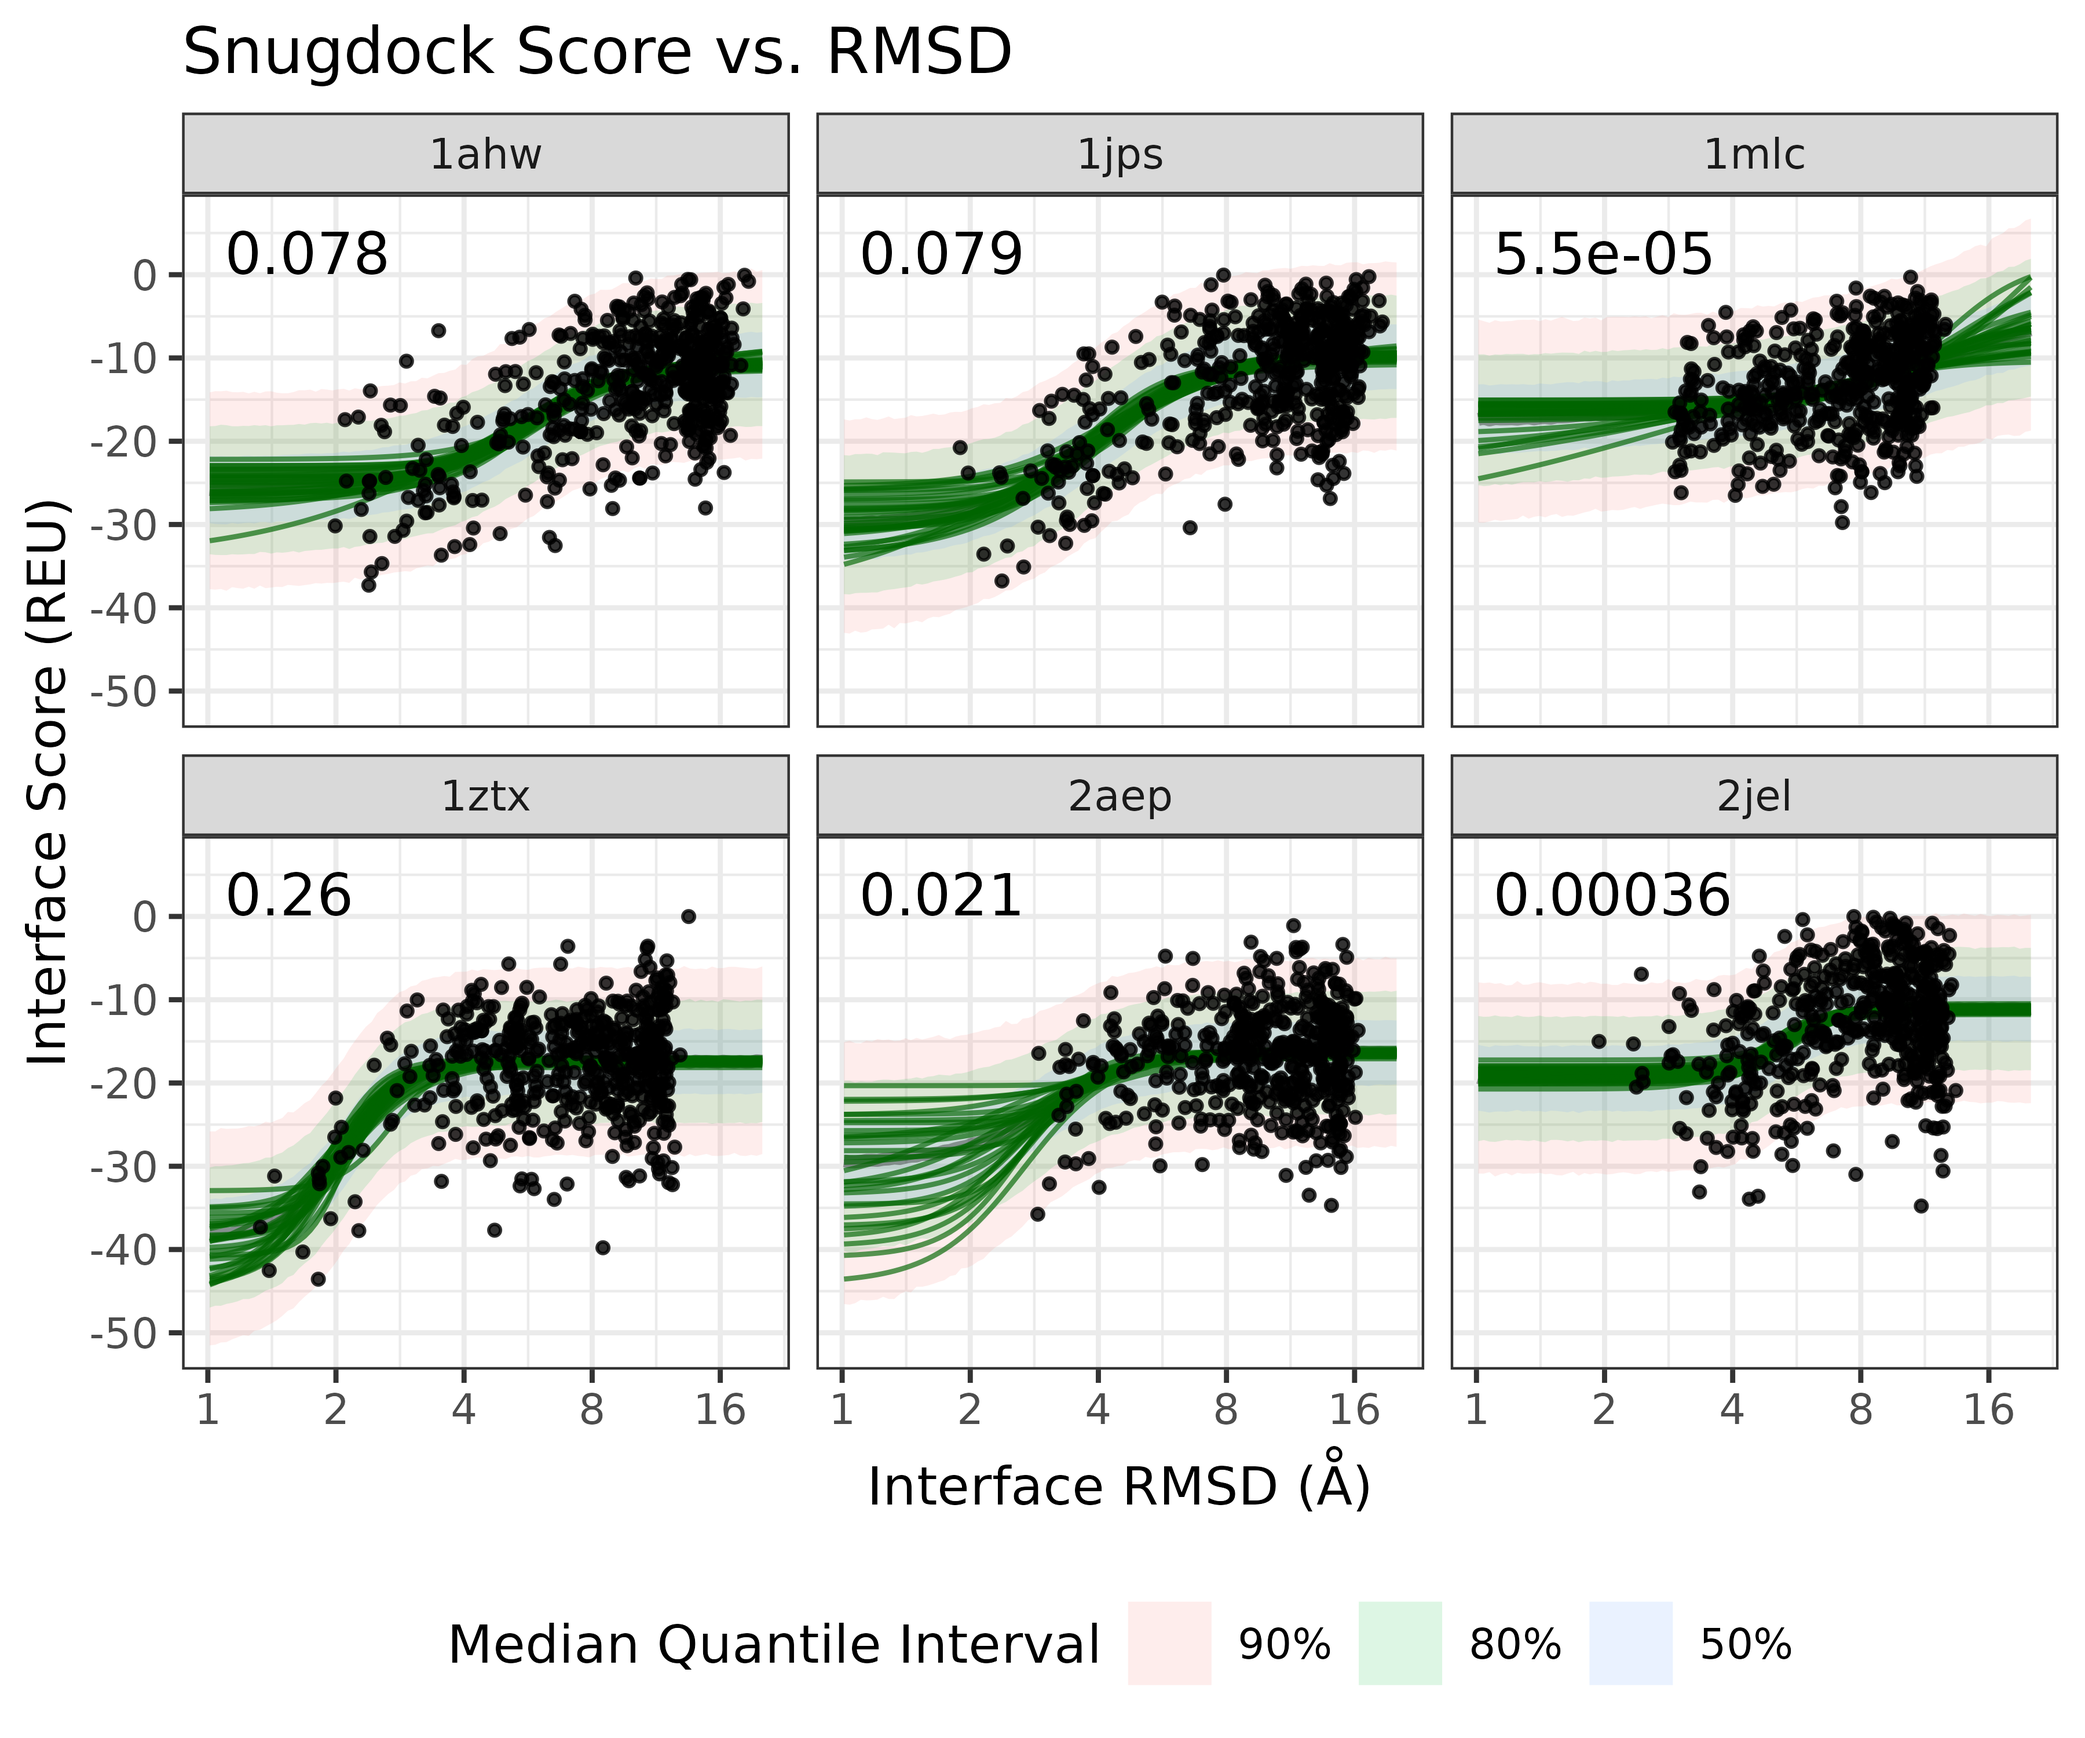
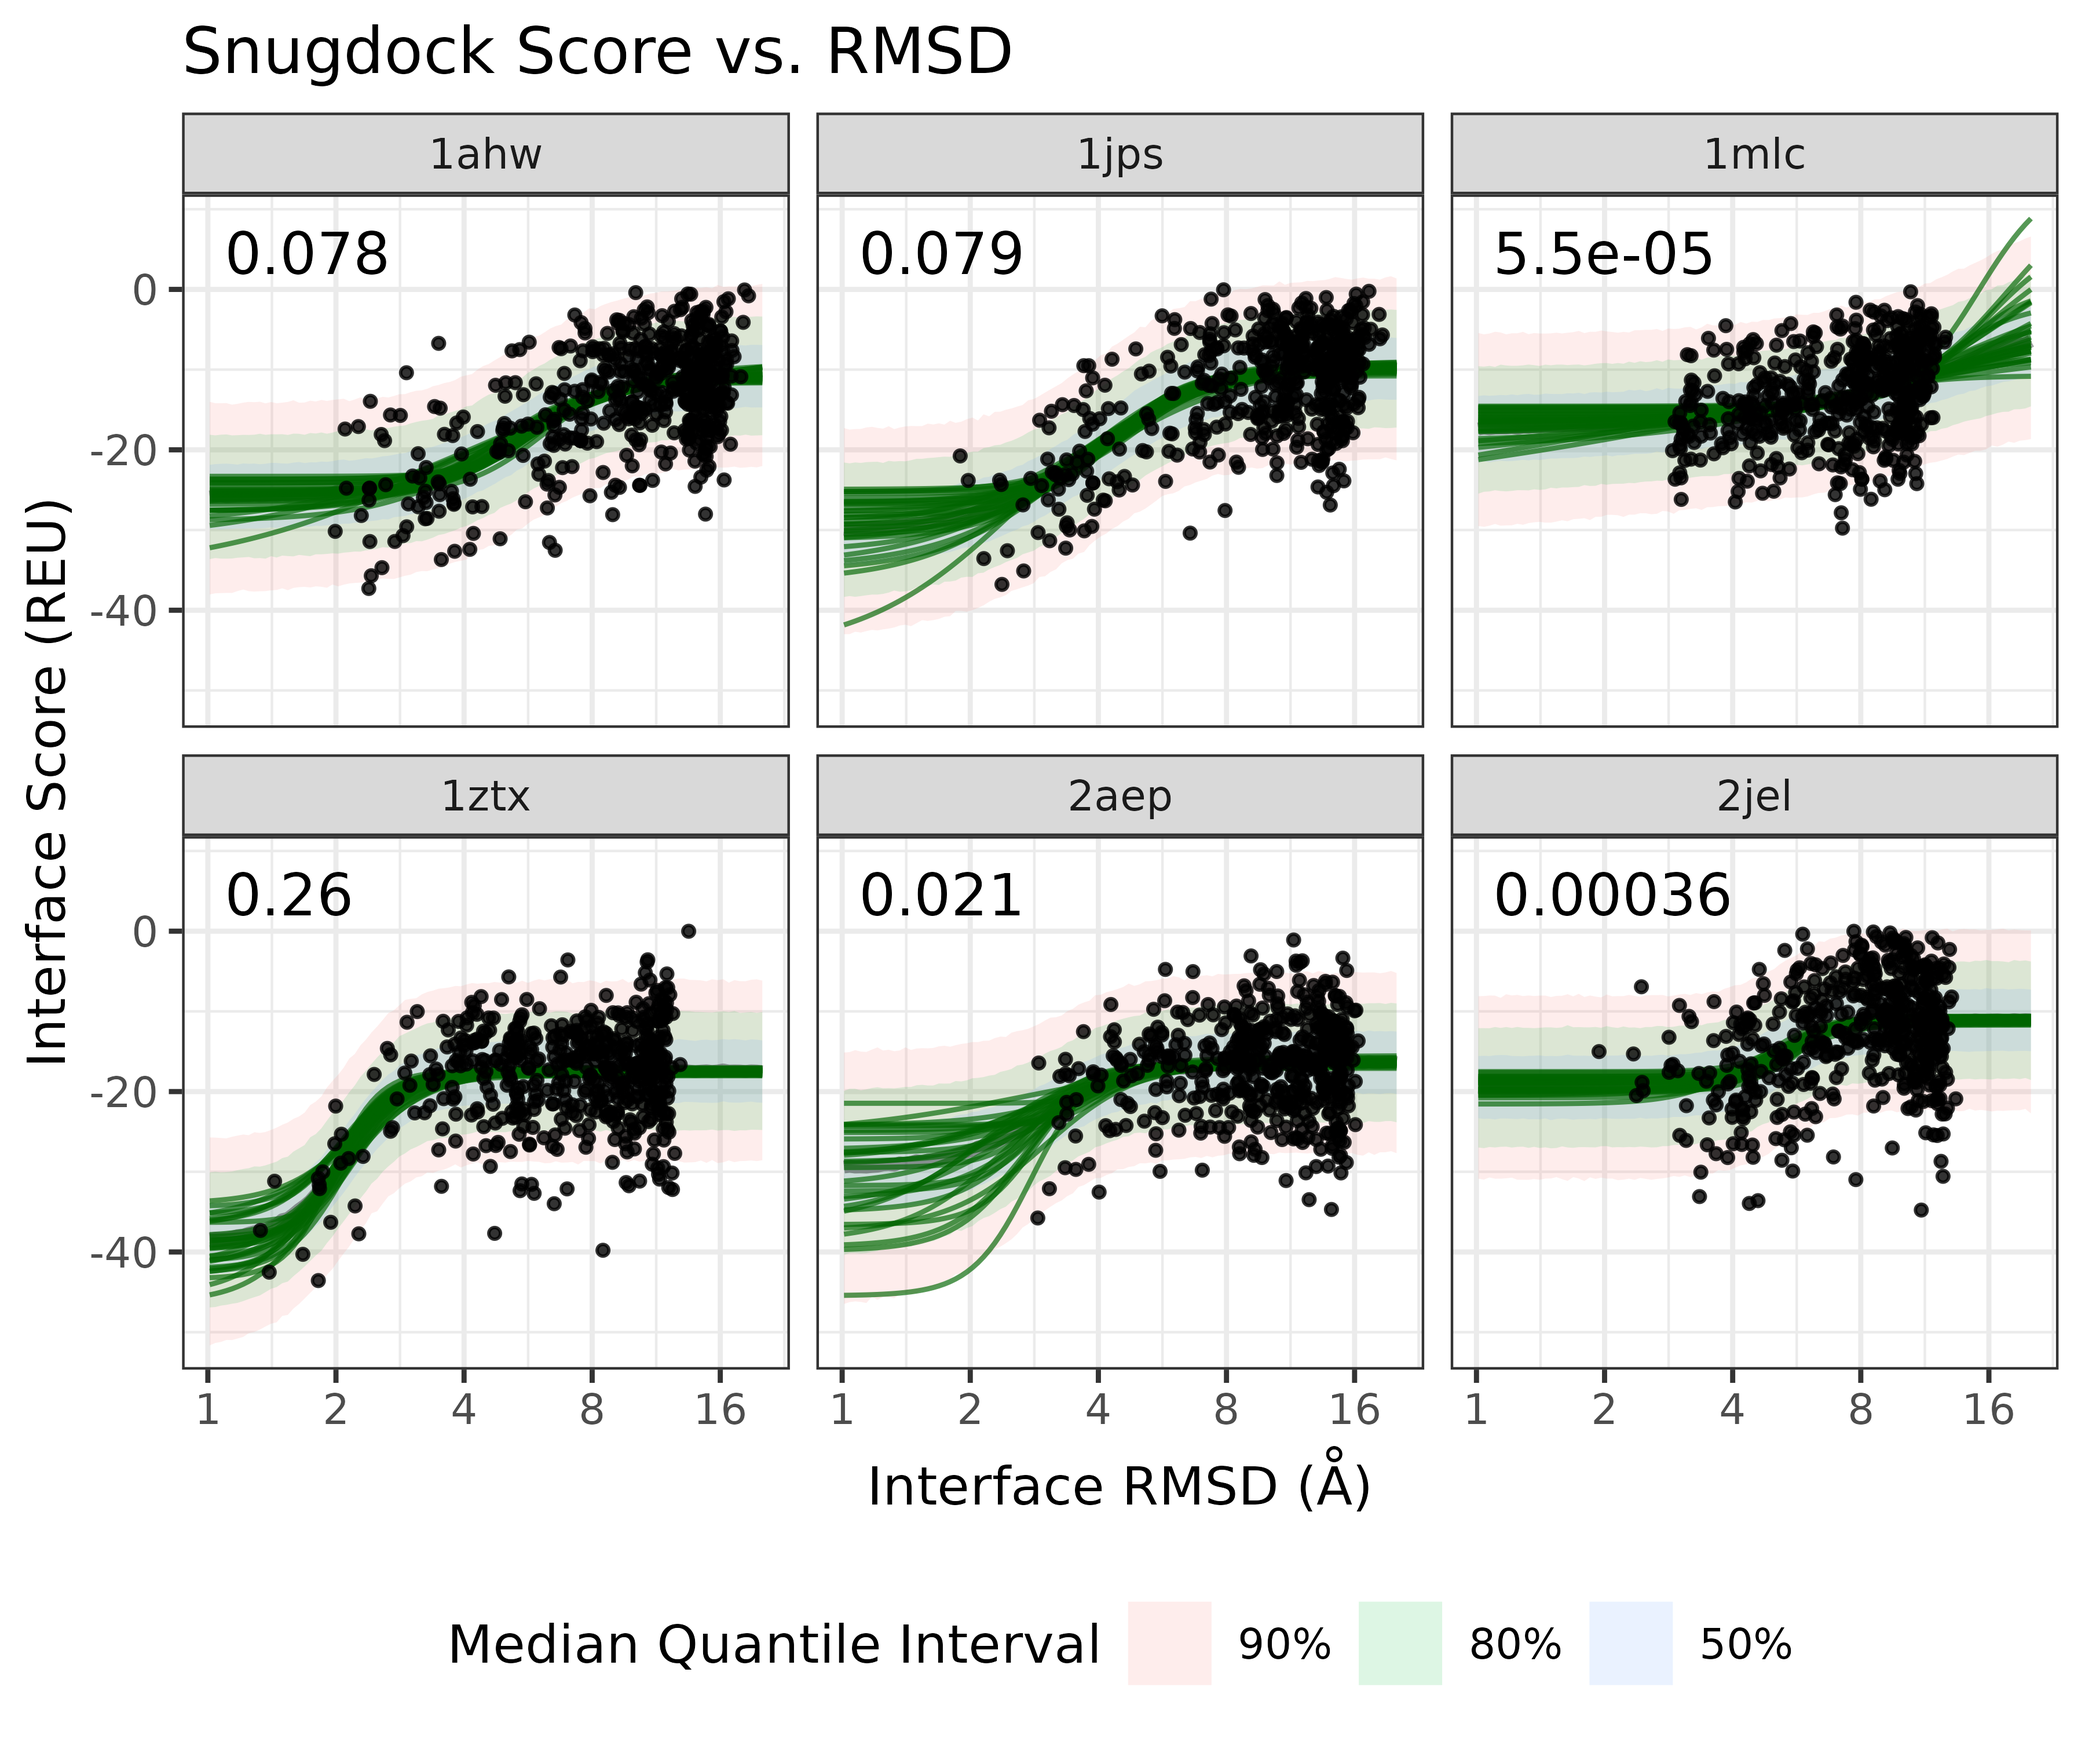
Built site for BayesPharma: 0.0.1@cf0fb52

diff --git a/articles/model_Pnear_distribution.html b/articles/model_Pnear_distribution.html
@@ -129,34 +129,34 @@
 <span class="co">## </span>
 <span class="co">## Population-Level Effects: </span>
 <span class="co">##                   Estimate Est.Error l-95% CI u-95% CI Rhat Bulk_ESS Tail_ESS</span>
-<span class="co">## ec50_target1ahw       1.70      0.11     1.44     1.87 1.00     7123     3918</span>
-<span class="co">## ec50_target1jps       1.37      0.13     1.08     1.59 1.00     8365     6475</span>
-<span class="co">## ec50_target1mlc       2.39      0.52     1.00     3.20 1.00     4917     4147</span>
-<span class="co">## ec50_target1ztx       0.75      0.08     0.59     0.90 1.00    10103     8923</span>
-<span class="co">## ec50_target2aep       1.11      0.24     0.61     1.49 1.00     9695     7279</span>
-<span class="co">## ec50_target2jel       1.65      0.06     1.53     1.76 1.00    10957     9450</span>
-<span class="co">## hill_target1ahw       1.69      0.44     0.88     2.63 1.00     5356     3410</span>
-<span class="co">## hill_target1jps       1.50      0.36     0.89     2.32 1.00     6746     6523</span>
-<span class="co">## hill_target1mlc       1.02      0.56     0.25     2.31 1.00     5371     5807</span>
-<span class="co">## hill_target1ztx       2.72      0.55     1.78     3.90 1.00    12478    11172</span>
-<span class="co">## hill_target2aep       2.00      0.65     0.77     3.37 1.00     9199     5053</span>
-<span class="co">## hill_target2jel       3.20      0.58     2.12     4.43 1.00    13294    10316</span>
-<span class="co">## top_target1ahw      -10.55      0.72   -11.58    -8.78 1.00     7124     3912</span>
-<span class="co">## top_target1jps       -9.70      0.58   -10.62    -8.33 1.00     9125     7329</span>
-<span class="co">## top_target1mlc       -1.30      5.95    -9.92    12.66 1.00    10718     8129</span>
-<span class="co">## top_target1ztx      -17.44      0.28   -17.98   -16.90 1.00    19985    10833</span>
-<span class="co">## top_target2aep      -16.34      0.45   -16.95   -15.53 1.00    11187     5870</span>
-<span class="co">## top_target2jel      -11.10      0.33   -11.75   -10.43 1.00    19047    11548</span>
-<span class="co">## bottom_target1ahw   -26.00      2.17   -31.45   -23.12 1.00     5617     3462</span>
-<span class="co">## bottom_target1jps   -30.45      3.79   -39.79   -24.88 1.00     7152     5913</span>
-<span class="co">## bottom_target1mlc   -18.60      4.48   -31.74   -14.77 1.00     4667     3882</span>
-<span class="co">## bottom_target1ztx   -38.84      3.52   -46.66   -32.98 1.00    10159     8787</span>
-<span class="co">## bottom_target2aep   -30.34      5.89   -43.89   -21.34 1.00    13443     9830</span>
-<span class="co">## bottom_target2jel   -19.47      0.98   -21.58   -17.76 1.00    11628     9111</span>
+<span class="co">## ec50_target1ahw       1.70      0.11     1.44     1.87 1.00     8040     4917</span>
+<span class="co">## ec50_target1jps       1.38      0.12     1.09     1.59 1.00     8182     6825</span>
+<span class="co">## ec50_target1mlc       2.39      0.53     0.95     3.19 1.00     5358     3861</span>
+<span class="co">## ec50_target1ztx       0.75      0.08     0.59     0.89 1.00     9590     7682</span>
+<span class="co">## ec50_target2aep       1.11      0.25     0.60     1.51 1.00     7621     5773</span>
+<span class="co">## ec50_target2jel       1.65      0.06     1.53     1.76 1.00    10396     8440</span>
+<span class="co">## hill_target1ahw       1.68      0.44     0.89     2.60 1.00     6079     4130</span>
+<span class="co">## hill_target1jps       1.51      0.36     0.90     2.30 1.00     7280     6394</span>
+<span class="co">## hill_target1mlc       1.03      0.55     0.26     2.29 1.00     5279     6129</span>
+<span class="co">## hill_target1ztx       2.72      0.55     1.78     3.91 1.00    11170    10033</span>
+<span class="co">## hill_target2aep       1.99      0.65     0.74     3.34 1.00     6881     2990</span>
+<span class="co">## hill_target2jel       3.19      0.58     2.12     4.40 1.00    12764     9492</span>
+<span class="co">## top_target1ahw      -10.55      0.71   -11.59    -8.82 1.00     7986     5463</span>
+<span class="co">## top_target1jps       -9.70      0.58   -10.60    -8.34 1.00     9687     7597</span>
+<span class="co">## top_target1mlc       -1.24      6.03    -9.89    13.09 1.00    11403     8918</span>
+<span class="co">## top_target1ztx      -17.45      0.28   -17.99   -16.89 1.00    18291    12029</span>
+<span class="co">## top_target2aep      -16.31      0.66   -16.95   -15.49 1.00     9033     3733</span>
+<span class="co">## top_target2jel      -11.09      0.34   -11.73   -10.43 1.00    17404    10972</span>
+<span class="co">## bottom_target1ahw   -26.00      2.08   -31.26   -23.10 1.00     6500     4535</span>
+<span class="co">## bottom_target1jps   -30.41      3.63   -39.16   -24.95 1.00     7535     6488</span>
+<span class="co">## bottom_target1mlc   -18.51      4.45   -31.99   -14.78 1.00     4551     3802</span>
+<span class="co">## bottom_target1ztx   -38.87      3.53   -46.87   -32.94 1.00     9780     8292</span>
+<span class="co">## bottom_target2aep   -30.32      5.89   -43.82   -21.30 1.00    11634     9956</span>
+<span class="co">## bottom_target2jel   -19.48      0.98   -21.59   -17.75 1.00    10495     7414</span>
 <span class="co">## </span>
 <span class="co">## Family Specific Parameters: </span>
 <span class="co">##       Estimate Est.Error l-95% CI u-95% CI Rhat Bulk_ESS Tail_ESS</span>
-<span class="co">## sigma     5.74      0.07     5.60     5.89 1.00    20505    11187</span>
+<span class="co">## sigma     5.74      0.07     5.60     5.89 1.00    17896    12464</span>
 <span class="co">## </span>
 <span class="co">## Draws were sampled using sampling(NUTS). For each parameter, Bulk_ESS</span>
 <span class="co">## and Tail_ESS are effective sample size measures, and Rhat is the potential</span>
@@ -167,8 +167,8 @@
 <span class="co">## </span>
 <span class="co">##          Estimate   SE</span>
 <span class="co">## elpd_loo  -9521.1 39.0</span>
-<span class="co">## p_loo        21.2  1.1</span>
-<span class="co">## looic     19042.3 77.9</span>
+<span class="co">## p_loo        21.3  1.1</span>
+<span class="co">## looic     19042.3 78.0</span>
 <span class="co">## ------</span>
 <span class="co">## Monte Carlo SE of elpd_loo is 0.0.</span>
 <span class="co">## </span>

diff --git a/index.html b/index.html
@@ -67,6 +67,74 @@
 </h2>
 <p>This package contains a collection of R tools for analyzing pharmacology data using Bayesian statistics.</p>
 </div>
+<div class="section level2">
+<h2 id="installation">Installation<a class="anchor" aria-label="anchor" href="#installation"></a>
+</h2>
+<div class="section level3">
+<h3 id="pre-requisites">Pre-requisites<a class="anchor" aria-label="anchor" href="#pre-requisites"></a>
+</h3>
+<p>Follow the instructions to install <a href="https://github.com/stan-dev/rstan/wiki/RStan-Getting-Started" class="external-link">rstan</a></p>
+</div>
+<div class="section level3">
+<h3 id="install-bayespharma">Install <code>BayesPharma</code>
+<a class="anchor" aria-label="anchor" href="#install-bayespharma"></a>
+</h3>
+<p>In R do</p>
+<pre class="{r}"><code><span class="fu"><a href="https://rdrr.io/r/utils/install.packages.html" class="external-link">install.packages</a></span><span class="op">(</span><span class="st">"remotes"</span><span class="op">)</span>
+   <span class="fu">remotes</span><span class="fu">::</span><span class="fu"><a href="https://remotes.r-lib.org/reference/install_github.html" class="external-link">install_github</a></span><span class="op">(</span><span class="st">"maomlab/BayesPharma"</span>, build_vignettes <span class="op">=</span> <span class="cn">FALSE</span><span class="op">)</span></code></pre>
+</div>
+</div>
+<div class="section level2">
+<h2 id="usage">Usage<a class="anchor" aria-label="anchor" href="#usage"></a>
+</h2>
+<p>calculate_log_dose change_col_name</p>
+<p>library(tidyverse) library(BayesPharma)</p>
+<p>data &lt;- data.frame( response = …, log_dose = …, <predictor columns>)</predictor></p>
+<p>dr_inits() dr_priors()</p>
+<p>model &lt;- data %&gt;% dr_model( formula = dr_formula</p>
+<p>model_prior &lt;-</p>
+<div class="section level3">
+<h3 id="evaluate-model-fit">Evaluate model fit<a class="anchor" aria-label="anchor" href="#evaluate-model-fit"></a>
+</h3>
+<div class="section level4">
+<h4 id="traceplot">Traceplot<a class="anchor" aria-label="anchor" href="#traceplot"></a>
+</h4>
+<p>model %&gt;% BayesPharma::traceplot()</p>
+</div>
+<div class="section level4">
+<h4 id="basic-statistics">Basic statistics<a class="anchor" aria-label="anchor" href="#basic-statistics"></a>
+</h4>
+<p>model %&gt;% basic_statistics()</p>
+</div>
+<div class="section level4">
+<h4 id="regression-plot">Regression plot<a class="anchor" aria-label="anchor" href="#regression-plot"></a>
+</h4>
+<p>model %&gt;% plot_draws_data()</p>
+</div>
+<div class="section level4">
+<h4 id="prior-densities">Prior densities<a class="anchor" aria-label="anchor" href="#prior-densities"></a>
+</h4>
+<p>model %&gt;% prior_densities() model %&gt;% posterior_densities() model %&gt;% prior_posterior_densitites()</p>
+</div>
+<div class="section level4">
+<h4 id="posterior-predictive-check">posterior predictive check<a class="anchor" aria-label="anchor" href="#posterior-predictive-check"></a>
+</h4>
+<p>model %&gt;% brms::pp_check(type = “dens_overlay”, ndraws = 50)</p>
+</div>
+</div>
+<div class="section level3">
+<h3 id="compare-model-fits">compare model fits<a class="anchor" aria-label="anchor" href="#compare-model-fits"></a>
+</h3>
+<p>model &lt;- model %&gt;% BayesPharma::add_loo_criterion() model_fit_comparison &lt;- compare_models(model, model_alt)</p>
+<div class="section level4">
+<h4 id="todo">TODO<a class="anchor" aria-label="anchor" href="#todo"></a>
+</h4>
+<p>either remove or re-organize column renaming functions</p>
+<p>dr_formula remove multiple_perturbations, just handle that case with dr_formula &lt;- function ( predictors = 1, …) { brms::brmsformula( response ~ sigmoid(ec50, hill, top, bottom, log_dose), rlang::new_formula( lhs = quote(ec50 + hill + top + bottom), rhs = rlang::enexpr(predictors)), nl = TRUE, …) }</p>
+<p>Add name to model object Use model name in add_loo_criterion rename dr_inits to have them better go with the model in dr_inits check data types do we need to have nchains for dr_inits? plot trajectories put required arguments before optional arguments change measurement to response and make it handle strings or expressions remove plot_pp_check</p>
+</div>
+</div>
+</div>
 </div>
   </main><aside class="col-md-3"><div class="license">
 <h2 data-toc-skip>License</h2>
